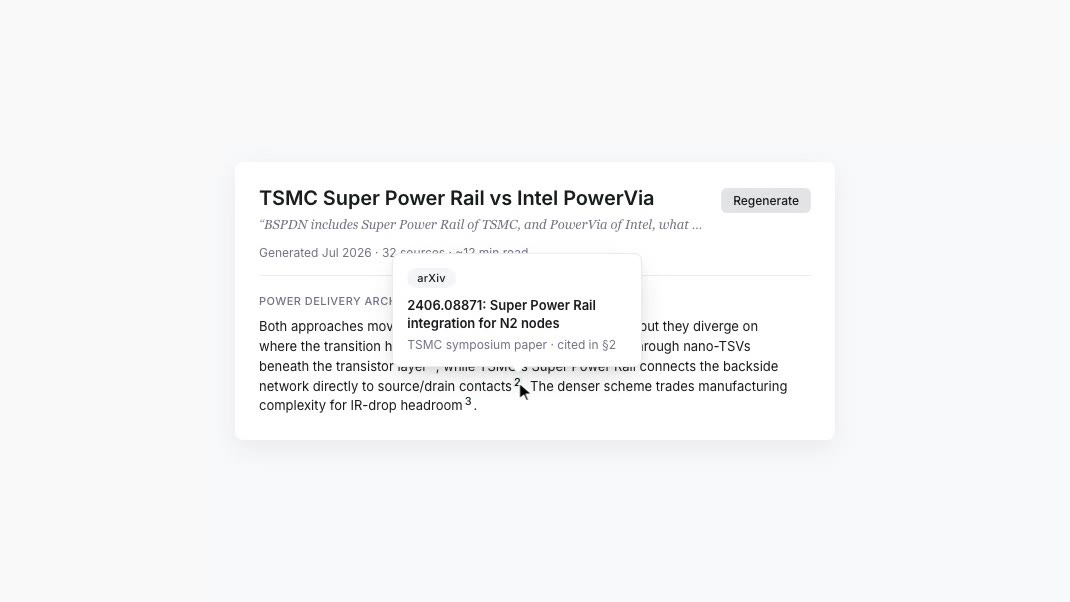
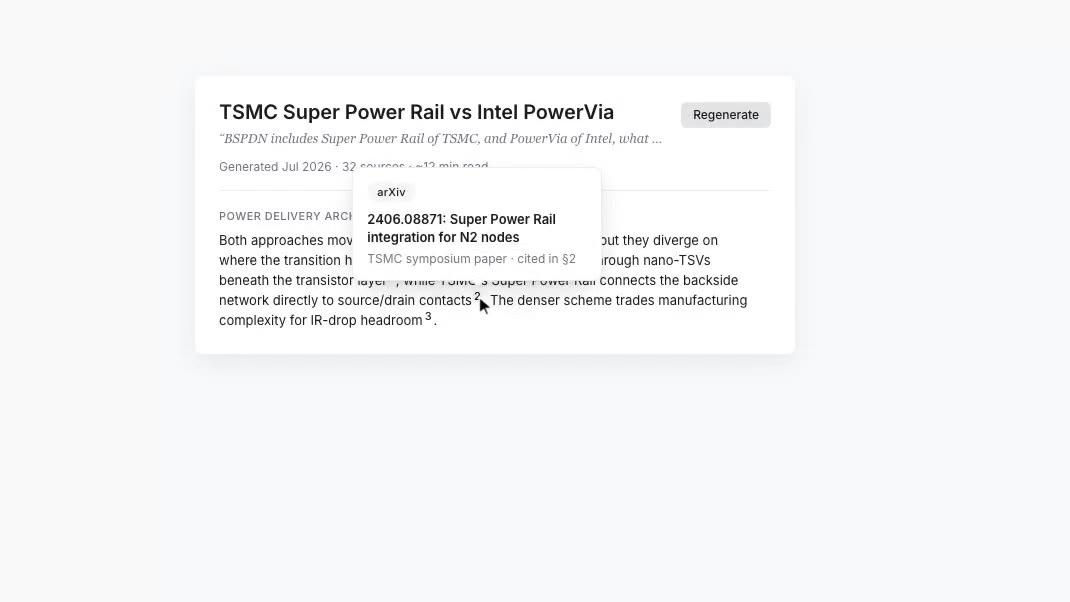
Dissolve between hero scenes, and align the queued state with the product
The four hero scenes were hard cuts, and the first one bled w1's resolved
state into the clarify scene. Replace every cut with a cross-dissolve (300ms;
420ms for loading→report, which now match-dissolves on the shared report
title — the wait literally becomes the artifact). The submit press is now
cursor animation only, so no stray resolved state can ghost through the blend.
The Completed chip stays in the live generating prototype as its terminal
state, but the film no longer lingers on it — the panel resolves straight
into the cited report.

The clarification prototype's queued strip said "Queued: … · Generating" with
an Adjust focus button — a design that exists nowhere in the product. It now
matches the shipped queued state: "Your report is queued — notify me when
ready?" with an outline Notify me and a solid View progress. View progress
walks the reader to the generating panel below and quietly resets the
prototype for replay.

Recording pipeline: segments are CFR-ized before xfade (VFR webm drifts), and
the master is assembled with a chained xfade graph. 17.8s, 470KB combined.

diff --git a/deeli/index.html b/deeli/index.html
@@ -1264,11 +1264,33 @@ body{margin:0;background:var(--canvas);color:var(--ink);font-family:var(--font-b
       font-weight:600;
       color:var(--d-text);
     }
-    #sol-w2 .sol-w2-adjust{
+    #sol-w2 .sol-w2-queued-actions{
+      display:flex;
+      align-items:center;
+      gap:8px;
+    }
+    #sol-w2 .sol-w2-notify{
+      appearance:none;
+      background:transparent;
+      border:1px solid var(--d-primary);
+      color:var(--d-primary);
+      font-family:inherit;
+      font-size:12px;
+      font-weight:500;
+      padding:6px 10px;
+      border-radius:var(--d-r-sm);
+      cursor:pointer;
+      white-space:nowrap;
+      transition:background var(--d-fast) var(--d-ease), opacity var(--d-fast) var(--d-ease);
+    }
+    #sol-w2 .sol-w2-notify:hover{ background:var(--d-surface-low); }
+    #sol-w2 .sol-w2-notify[disabled]{ opacity:.55; cursor:default; }
+    #sol-w2 .sol-w2-view{
       appearance:none;
       border:none;
-      background:transparent;
-      color:var(--d-primary);
+      background:var(--d-primary);
+      color:var(--d-white);
+      font-family:inherit;
       font-size:12px;
       font-weight:500;
       padding:6px 10px;
@@ -1277,8 +1299,9 @@ body{margin:0;background:var(--canvas);color:var(--ink);font-family:var(--font-b
       white-space:nowrap;
       transition:background var(--d-fast) var(--d-ease);
     }
-    #sol-w2 .sol-w2-adjust:hover{ background:var(--d-surface-low); }
-    #sol-w2 .sol-w2-adjust:focus-visible{
+    #sol-w2 .sol-w2-view:hover{ background:var(--d-primary-container); }
+    #sol-w2 .sol-w2-notify:focus-visible,
+    #sol-w2 .sol-w2-view:focus-visible{
       outline:1px solid var(--d-primary);
       outline-offset:2px;
     }
@@ -1353,8 +1376,11 @@ body{margin:0;background:var(--canvas);color:var(--ink);font-family:var(--font-b
       </div>
 
       <div class="sol-w2-panel sol-w2-queued" id="sol-w2-queued" hidden>
-        <p class="sol-w2-queued-text" role="status"><strong>Queued</strong>: Arm robotics market, Arm Holdings · Generating</p>
-        <button type="button" class="sol-w2-adjust" id="sol-w2-adjust" aria-label="Adjust focus and choose again">Adjust focus</button>
+        <p class="sol-w2-queued-text" role="status" id="sol-w2-queued-text">Your report is queued &mdash; notify me when ready?</p>
+        <div class="sol-w2-queued-actions">
+          <button type="button" class="sol-w2-notify" id="sol-w2-notify">Notify me</button>
+          <button type="button" class="sol-w2-view" id="sol-w2-view" aria-label="View generation progress; resets this prototype">View progress</button>
+        </div>
       </div>
     </div>
 
@@ -1380,7 +1406,9 @@ body{margin:0;background:var(--canvas);color:var(--ink);font-family:var(--font-b
     var marketWord = root.querySelector('#sol-w2-market');
     var fnchip2 = root.querySelector('#sol-w2-fnchip2');
     var fnchip2Label = root.querySelector('#sol-w2-fnchip2-label');
-    var adjustBtn = root.querySelector('#sol-w2-adjust');
+    var notifyBtn = root.querySelector('#sol-w2-notify');
+    var viewBtn = root.querySelector('#sol-w2-view');
+    var queuedText = root.querySelector('#sol-w2-queued-text');
     var statusNode = root.querySelector('#sol-w2-status');
     var FAST = parseFloat(getComputedStyle(root).getPropertyValue('--d-fast')) || 160;
 
@@ -1494,14 +1522,30 @@ body{margin:0;background:var(--canvas);color:var(--ink);font-family:var(--font-b
     submit.addEventListener('click', function(){
       if (!selected) return;
       swapPanels(clarifyPanel, queuedPanel, function(){
-        adjustBtn.focus();
+        notifyBtn.focus();
       });
     });
 
-    adjustBtn.addEventListener('click', function(){
-      swapPanels(queuedPanel, clarifyPanel, function(){
-        if (selected) selected.focus();
-      });
+    notifyBtn.addEventListener('click', function(){
+      queuedText.textContent = "We'll notify you when it's ready.";
+      notifyBtn.disabled = true;
+    });
+
+    // "View progress" walks the reader to the generating panel below — the
+    // real next step in the shipped flow — and quietly resets this prototype
+    // so it can be replayed on the way back up.
+    viewBtn.addEventListener('click', function(){
+      var gen = document.getElementById('sol-w3');
+      if (gen){
+        var det = gen.closest('details');
+        if (det) det.open = true;
+        gen.scrollIntoView({ behavior:'smooth', block:'center' });
+      }
+      window.setTimeout(function(){
+        queuedText.textContent = 'Your report is queued — notify me when ready?';
+        notifyBtn.disabled = false;
+        swapPanels(queuedPanel, clarifyPanel);
+      }, 600);
     });
   })();
   </script>